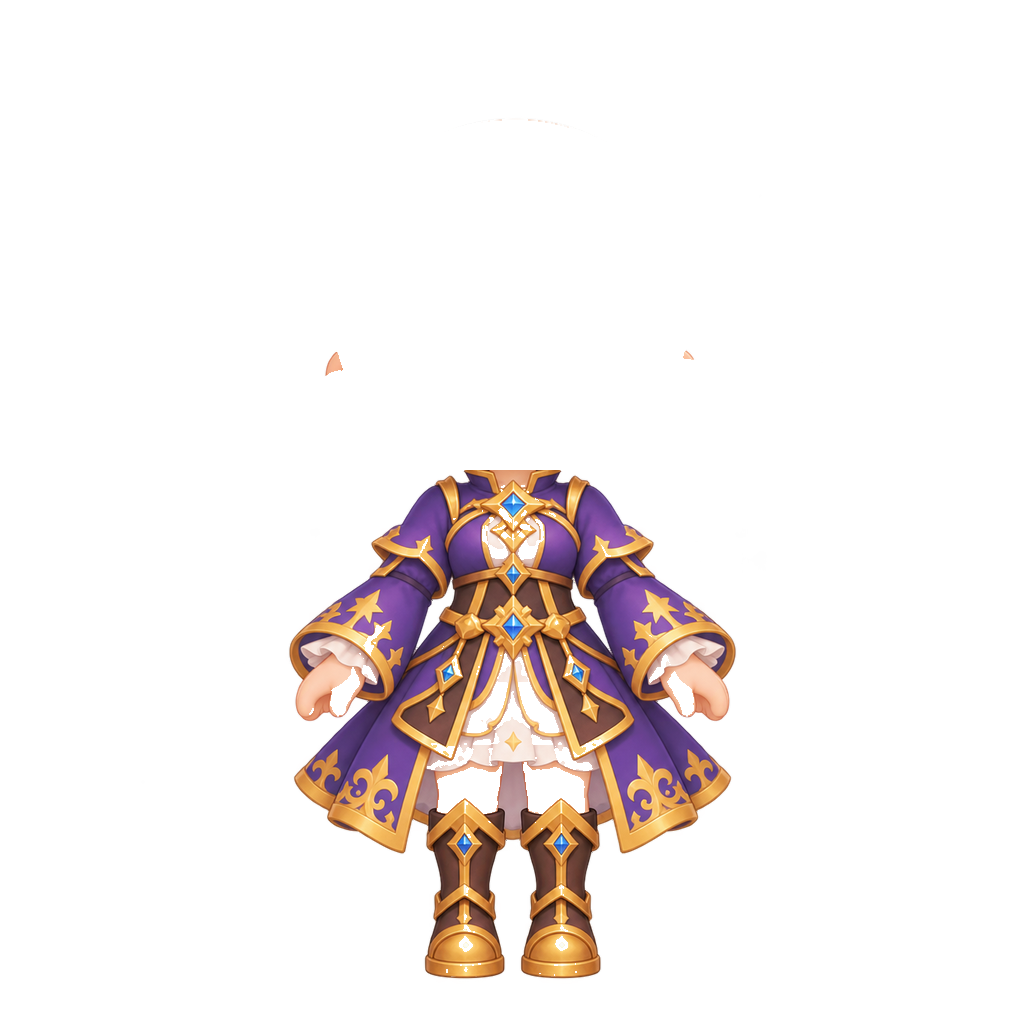
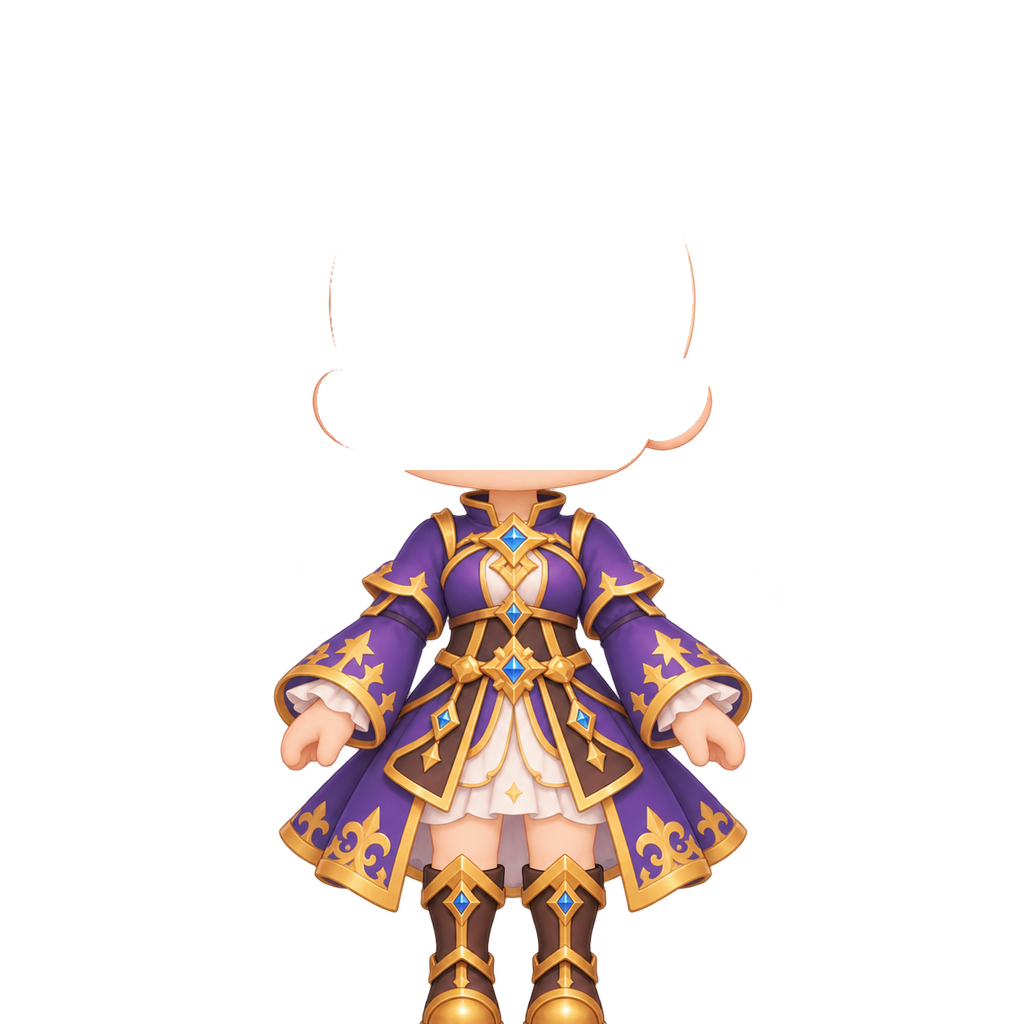
fix(iq2): 衣装を顔基準で位置合わせ（インナー透け解消）、画像キャッシュ対策
Claude-Session: https://claude.ai/code/session_01NXuBE3U4UAebXMPco3J5UQ

diff --git a/app/lib/avatar/catalog.ts b/app/lib/avatar/catalog.ts
@@ -113,6 +113,9 @@ export const BODY_READY = new Set(["f__light"]);
 export const OUTFIT_READY = new Set(["knight_default__f","mage_default__f","archer_default__f","healer_default__f","rogue_default__f","paladin_default__f"]);
 export const OUTFIT_HAS_BACK = new Set<string>([]);
 
+/** 画像差し替え時にブラウザキャッシュを無効化するためのバージョン */
+export const ASSET_V = "3";
+
 export function resolveLayers(c: AvatarConfig, job: JobKey): { layer: Layer; src: string | null; missing: boolean }[] {
     const g = GEAR[job];
     const find = (list: Part[], id: string) => list.find((p) => p.id === id);
@@ -132,5 +135,5 @@ export function resolveLayers(c: AvatarConfig, job: JobKey): { layer: Layer; src
         cape: gear(g.cape, c.cape, "cape"), hair_back: { src: hairSrc("back"), missing: !(hair?.src && colorOk) }, body, outfit_back: out("back"), outfit_front: out("front"),
         hair_front: { src: hairSrc("front"), missing: !(hair?.src && colorOk) }, head: gear(g.head, c.head, "head"), weapon: gear(g.weapon, c.weapon, "weapon"), accessory: gear(g.accessory, c.accessory, "accessory"),
     };
-    return LAYER_ORDER.map((layer) => ({ layer, ...parts[layer] }));
+    return LAYER_ORDER.map((layer) => { const p = parts[layer]; return { layer, src: p.src ? p.src + "?v=" + ASSET_V : p.src, missing: p.missing }; });
 }

diff --git a/tools/avatar_fit.py b/tools/avatar_fit.py
@@ -8,14 +8,24 @@ import numpy as np
 ap=argparse.ArgumentParser(); ap.add_argument("src"); ap.add_argument("dst"); ap.add_argument("--body",default="public/avatar/body/f__light.png"); ap.add_argument("--neck",type=int,default=470); ap.add_argument("--keep-head",action="store_true")
 a=ap.parse_args()
 src=Image.open(a.src).convert("RGBA"); d=src.resize((1024,1024),Image.LANCZOS); bd=Image.open(a.body).convert("RGBA")
-def bb(i):
-    m=np.array(i)[:,:,3]>10; ys,xs=np.where(m); return xs.min(),xs.max(),ys.min(),ys.max()
-bx,dx=bb(bd),bb(d); s=(bx[3]-bx[2])/(dx[3]-dx[2]); w=int(round(1024*s)); sm=src.resize((w,w),Image.LANCZOS)
-cxb=(bx[0]+bx[1])/2; cxd=(dx[0]+dx[1])/2*s
-fit=Image.new("RGBA",(1024,1024),(0,0,0,0)); fit.alpha_composite(sm,(int(round(cxb-cxd)),int(round(bx[3]-dx[3]*s))))
+import cv2
+# 顔（両目）のテンプレートで拡縮と位置を求める（GPT は顔を変えないので、これが最も正確）
+bg=np.array(bd.convert("RGB")); ty0,ty1,tx0,tx1=330,440,360,660
+tpl=cv2.cvtColor(bg[ty0:ty1,tx0:tx1],cv2.COLOR_RGB2GRAY)
+sq=Image.new("RGBA",(max(src.size),)*2,(0,0,0,0)); sq.paste(src,((sq.width-src.width)//2,(sq.height-src.height)//2))
+dg=np.array(sq.resize((1024,1024),Image.LANCZOS).convert("RGB")); best=None
+for s_ in np.arange(0.70,1.12,0.01):
+    w=int(round(1024*s_)); g=cv2.cvtColor(cv2.resize(dg,(w,w),interpolation=cv2.INTER_AREA),cv2.COLOR_RGB2GRAY)
+    if g.shape[0]<tpl.shape[0]: continue
+    r=cv2.matchTemplate(g,tpl,cv2.TM_CCOEFF_NORMED); _,mv,_,ml=cv2.minMaxLoc(r)
+    if best is None or mv>best[0]: best=(mv,s_,ml)
+_,s,(mx,my)=best; w=int(round(1024*s)); sm=sq.resize((w,w),Image.LANCZOS)
+fit=Image.new("RGBA",(1024,1024),(0,0,0,0)); fit.alpha_composite(sm,(tx0-mx,ty0-my))
 A=np.array(fit).astype(int); B=np.array(bd).astype(int); vis=B[:,:,3]>200
-same=vis&(np.abs(A[:,:,:3]-B[:,:,:3]).sum(axis=2)<60)
-mask=same if a.keep_head else (same|((np.arange(1024)[:,None]<a.neck)&vis))
+skinB=(B[:,:,0]>170)&(B[:,:,0]-B[:,:,2]>20)&(B[:,:,1]>=B[:,:,2])   # 素体の肌色だけ
+same=vis&skinB&(np.abs(A[:,:,:3]-B[:,:,:3]).sum(axis=2)<60)
+# 首より下は GPT が描いた画素をすべて残す（露出した肩などが素体のインナーを隠す）。頭だけ素体に任せる
+mask=np.zeros_like(same) if a.keep_head else ((np.arange(1024)[:,None]<a.neck)&vis)
 al=A[:,:,3].copy(); al[mask]=0
 fit.putalpha(Image.fromarray(al.astype("uint8")).filter(ImageFilter.MedianFilter(3)))
 fit.save(a.dst); print("saved",a.dst,"scale",round(s,3))
